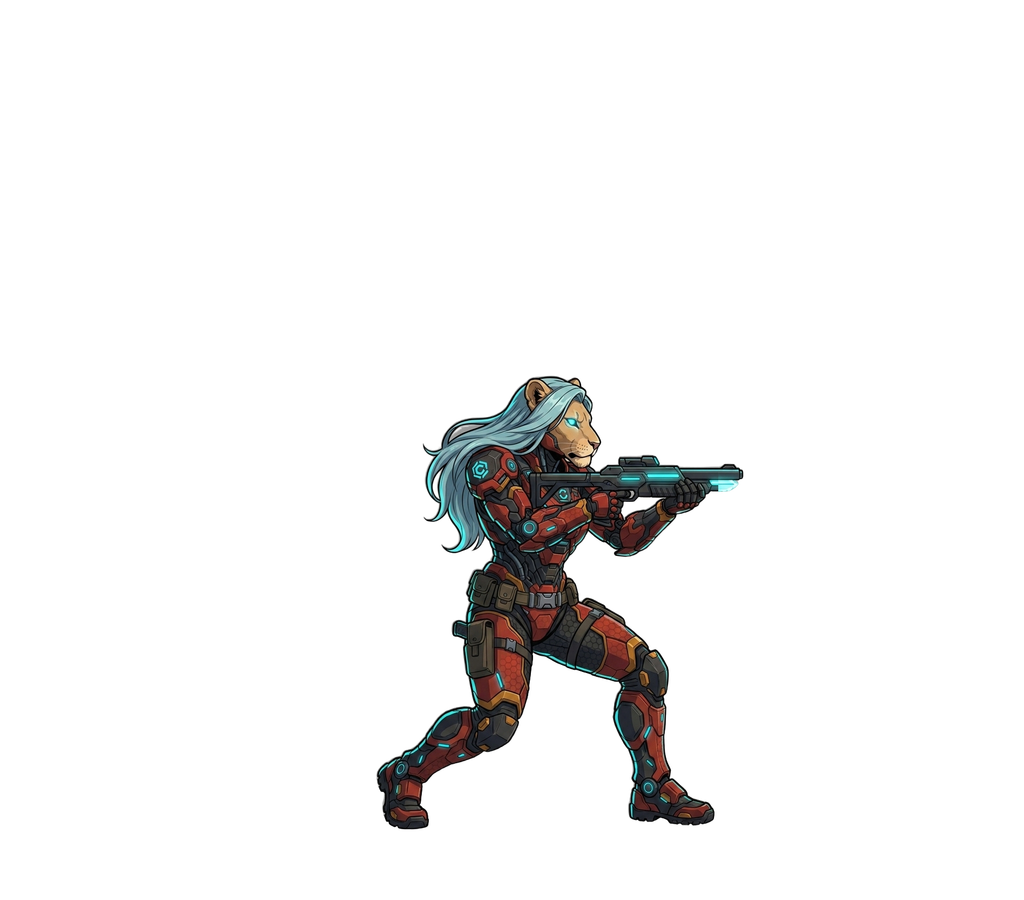
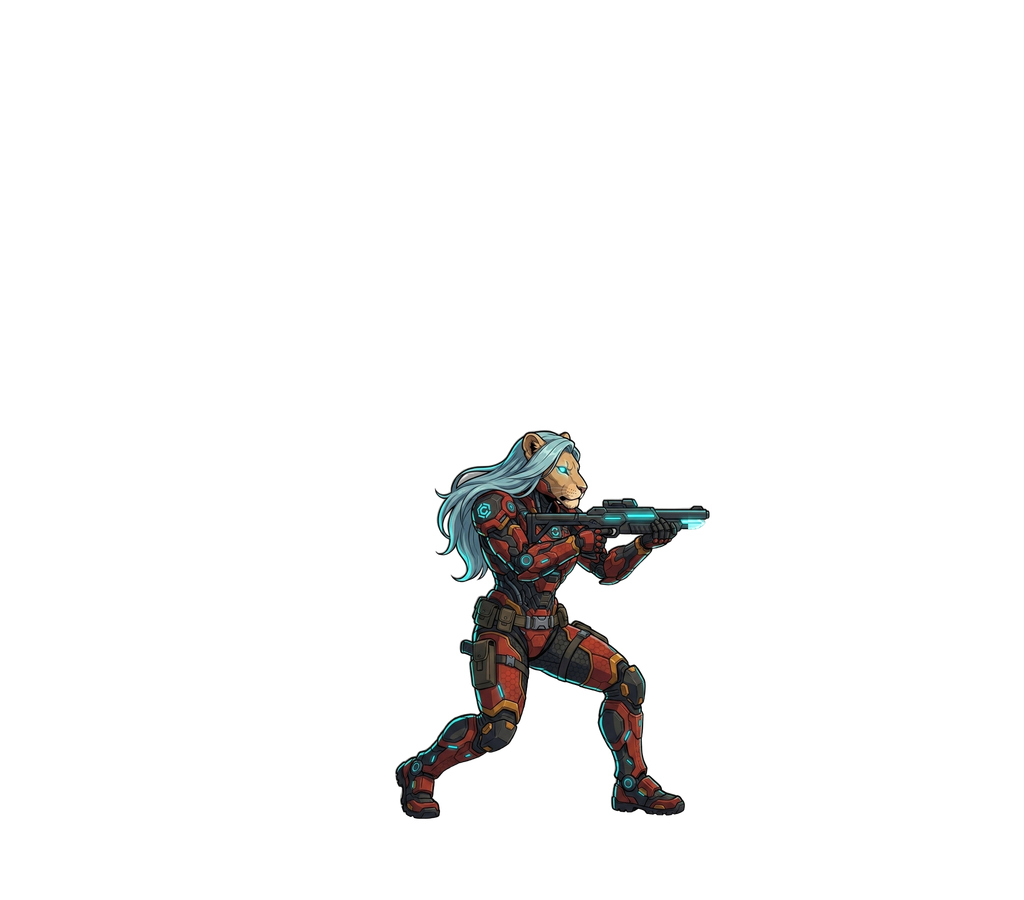
v1.39 Clearance & Crouch — fix head-hit spacing + a real crouch
Head-hit spacing: add a geometric clearance scanner (reads the live player hitbox
and every level's solids) that flags any walkable surface whose overhead headroom
is under a jump-onto threshold. It found catwalk plats overhanging the tops of
climbing steps in four stages — worst was Core Access with 12px of headroom over
the S2 tier. Relocate those plats clear of the step tops (Neon Streets, Industrial
Rise, Sky Rail, Core Access) so every step + ledge now has full headroom to climb
onto; remaining flags are intentional pass-under catwalks over open ground.

Crouch: crouching now collapses the hitbox to ~60% height with the feet planted, so
the huntress fits under low overhangs and enemy fire passes over her lowered profile
— crouch finally does something. Re-align the crouch pose to a lower target height so
it visibly reads as a deep crouch instead of a barely-lowered stand.

Claude-Session: https://claude.ai/code/session_01E2ix5THEj5LBKQzPAZYEsP

Changed region(s): [[0.3438, 0.4044, 0.7188, 0.9333]]

diff --git a/src/game/MainScene.ts b/src/game/MainScene.ts
@@ -197,7 +197,7 @@ export const LEVELS: LevelDef[] = [
     // a high catwalk line, turret nests. Longer + sectioned vs the old stub.
     name: 'NEON STREETS', theme: 'streets', w: 3800, h: 780, spawn: [120, 500], goal: [3700, 540],
     ground: [[0, 760, 600], [940, 1560, 600], [1740, 2560, 600], [2740, 3800, 600]],
-    plats: [[280, 430, 150], [1900, 410, 150], [2200, 390, 150], [3600, 360, 150]],
+    plats: [[200, 430, 150], [1900, 410, 150], [2200, 390, 150], [3600, 360, 150]],
     walls: [
       [420, 550, 180, 120], [600, 490, 180, 240],                              // S1 entry staircase
       [1160, 540, 190, 130], [1350, 470, 190, 300],                            // S2 mid staircase
@@ -223,7 +223,7 @@ export const LEVELS: LevelDef[] = [
     // vertical lift climbs the "rise", spike vents on the floor, divers overhead.
     name: 'INDUSTRIAL RISE', theme: 'industrial', w: 3900, h: 800, spawn: [120, 500], goal: [3800, 540],
     ground: [[0, 700, 600], [880, 1440, 600], [1620, 2200, 600], [2380, 3900, 600]],
-    plats: [[250, 430, 150], [1150, 420, 170], [2950, 400, 160], [3450, 400, 150]],
+    plats: [[250, 430, 150], [1150, 420, 170], [3010, 400, 160], [3450, 400, 150]],
     walls: [
       [450, 540, 200, 140],                                    // S1 machine housing
       [1750, 520, 160, 200], [1950, 440, 160, 320],            // S3 the RISE (staircase up)
@@ -250,7 +250,7 @@ export const LEVELS: LevelDef[] = [
     // platforms, mover-rails and bounce pads to cross + climb, aerial-heavy.
     name: 'SKY RAIL', theme: 'sky', w: 4000, h: 820, spawn: [120, 500], goal: [3900, 540],
     ground: [[0, 640, 600], [820, 1300, 600], [1480, 1960, 600], [2140, 2620, 600], [2800, 4000, 600]],
-    plats: [[300, 420, 140], [520, 350, 140], [1000, 410, 150], [1650, 400, 150], [1850, 320, 150], [2400, 400, 150], [3150, 380, 150], [3500, 320, 150]],
+    plats: [[300, 420, 140], [520, 350, 140], [920, 410, 150], [1650, 400, 150], [1850, 320, 150], [2400, 400, 150], [3120, 380, 150], [3500, 320, 150]],
     walls: [[1100, 540, 180, 120], [3300, 520, 180, 180]],
     turrets: [[520, 350], [1850, 320], [3500, 320]],
     enemies: [
@@ -274,7 +274,7 @@ export const LEVELS: LevelDef[] = [
     // tight walls/chokes, mover-bridged pits, intense run-up to the throne.
     name: 'CORE ACCESS', theme: 'core', w: 3900, h: 780, spawn: [120, 500], goal: [3800, 540],
     ground: [[0, 760, 600], [940, 1520, 600], [1700, 2360, 600], [2540, 3900, 600]],
-    plats: [[280, 430, 140], [1300, 410, 150], [2200, 400, 150], [3600, 380, 150]],
+    plats: [[280, 430, 140], [1020, 410, 150], [2200, 400, 150], [3600, 380, 150]],
     walls: [
       [500, 500, 160, 200],                                    // S1 choke
       [1200, 480, 180, 240], [1400, 540, 180, 120],            // S2 tiered
@@ -718,8 +718,17 @@ export class MainScene extends Phaser.Scene {
       this.player.setDisplaySize(DISP_H * (1024 / 900), DISP_H)
       const tw = this.player.width, th = this.player.height   // 1024 x 900
       const b = this.player.body as Phaser.Physics.Arcade.Body
-      b.setSize(tw * 0.11, th * 0.44)          // torso+legs column
-      b.setOffset(tw * 0.445, th * 0.40)       // centred x, from mid-torso down to the feet
+      if (k === 'huntress_crouch') {
+        // Crouch: collapse the hitbox to ~60% height with the FEET planted (body
+        // bottom fixed at th*0.84) so the head drops — the huntress fits under low
+        // overhangs and enemy fire passes over the lowered profile.
+        const bh = th * 0.26
+        b.setSize(tw * 0.13, bh)
+        b.setOffset(tw * 0.435, th * 0.84 - bh)
+      } else {
+        b.setSize(tw * 0.11, th * 0.44)        // torso+legs column
+        b.setOffset(tw * 0.445, th * 0.40)     // centred x, from mid-torso down to the feet
+      }
     }
   }
 

diff --git a/src/game/Game.tsx b/src/game/Game.tsx
@@ -143,7 +143,7 @@ export function Game() {
         <div className="mb-2 flex items-center justify-between text-sm">
           <span className="font-bold tracking-widest text-fuchsia-400">APEX STRIKE</span>
           <div className="flex items-center gap-3">
-            <span className="text-violet-400/70 text-xs">v1.38 — Level Overhaul</span>
+            <span className="text-violet-400/70 text-xs">v1.39 — Clearance & Crouch</span>
             <button
               onClick={toggleFullscreen}
               className="text-xs text-violet-200 px-2 py-1 rounded-md border border-violet-700/60 hover:border-fuchsia-500/70 hover:text-fuchsia-200 transition-colors"
